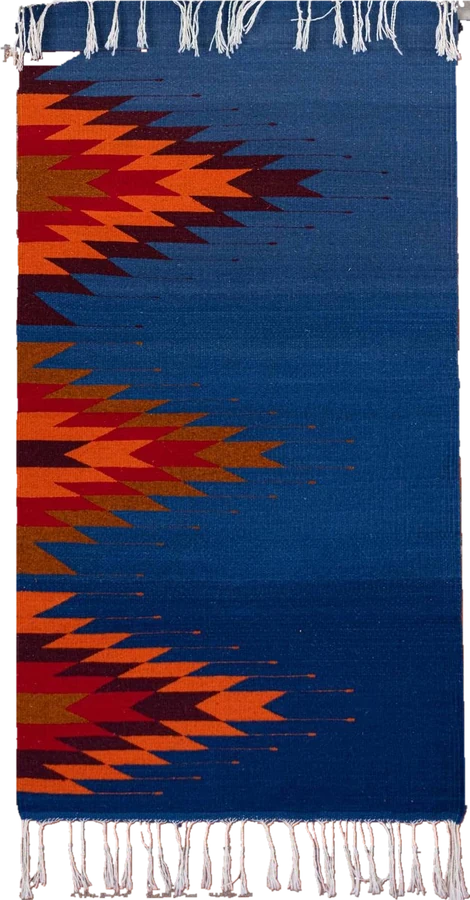
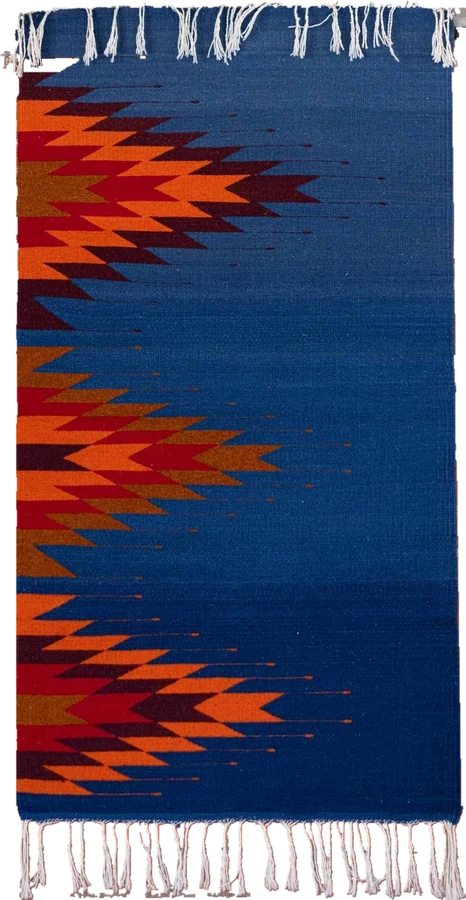
Recuperar flecos blancos junto al tubo y quitar la inclinación del tapete flotante
Claude-Session: https://claude.ai/code/session_012NQj1oq7paxjZGQjh2KJjR

diff --git a/historia.html b/historia.html
@@ -774,12 +774,11 @@
     .flotante {
       height: clamp(280px, 40vw, 480px); width: auto; display: block;
       filter: drop-shadow(0 24px 22px rgba(36,26,16,0.34)) drop-shadow(0 4px 6px rgba(36,26,16,0.22));
-      transform: rotate(-2deg);
       animation: flotar 7s ease-in-out infinite;
     }
     @keyframes flotar {
-      0%, 100% { transform: translateY(0) rotate(-2deg); }
-      50%      { transform: translateY(-12px) rotate(-2deg); }
+      0%, 100% { transform: translateY(0); }
+      50%      { transform: translateY(-12px); }
     }
     @media (prefers-reduced-motion: reduce) { .flotante { animation: none; } }
 
@@ -1040,7 +1039,7 @@
 
   <div style="display:flex; gap:48px; flex-wrap:wrap; align-items:flex-start; margin-top:40px;">
     <div style="flex:1 1 320px; min-width:260px; max-width:420px; display:flex; justify-content:center; padding:16px 0 32px;">
-      <img class="flotante" src="img/galeria-tapete-azul.webp" alt="Tapete azul con rayos rojos y naranjas, flecos blancos arriba y abajo" width="470" height="900" loading="lazy">
+      <img class="flotante" src="img/galeria-tapete-azul.webp" alt="Tapete azul con rayos rojos y naranjas, flecos blancos arriba y abajo" width="466" height="900" loading="lazy">
     </div>
     <div class="contact-info" style="flex:1 1 320px; min-width:260px;">
       <div class="dato" style="margin-bottom:28px;">
